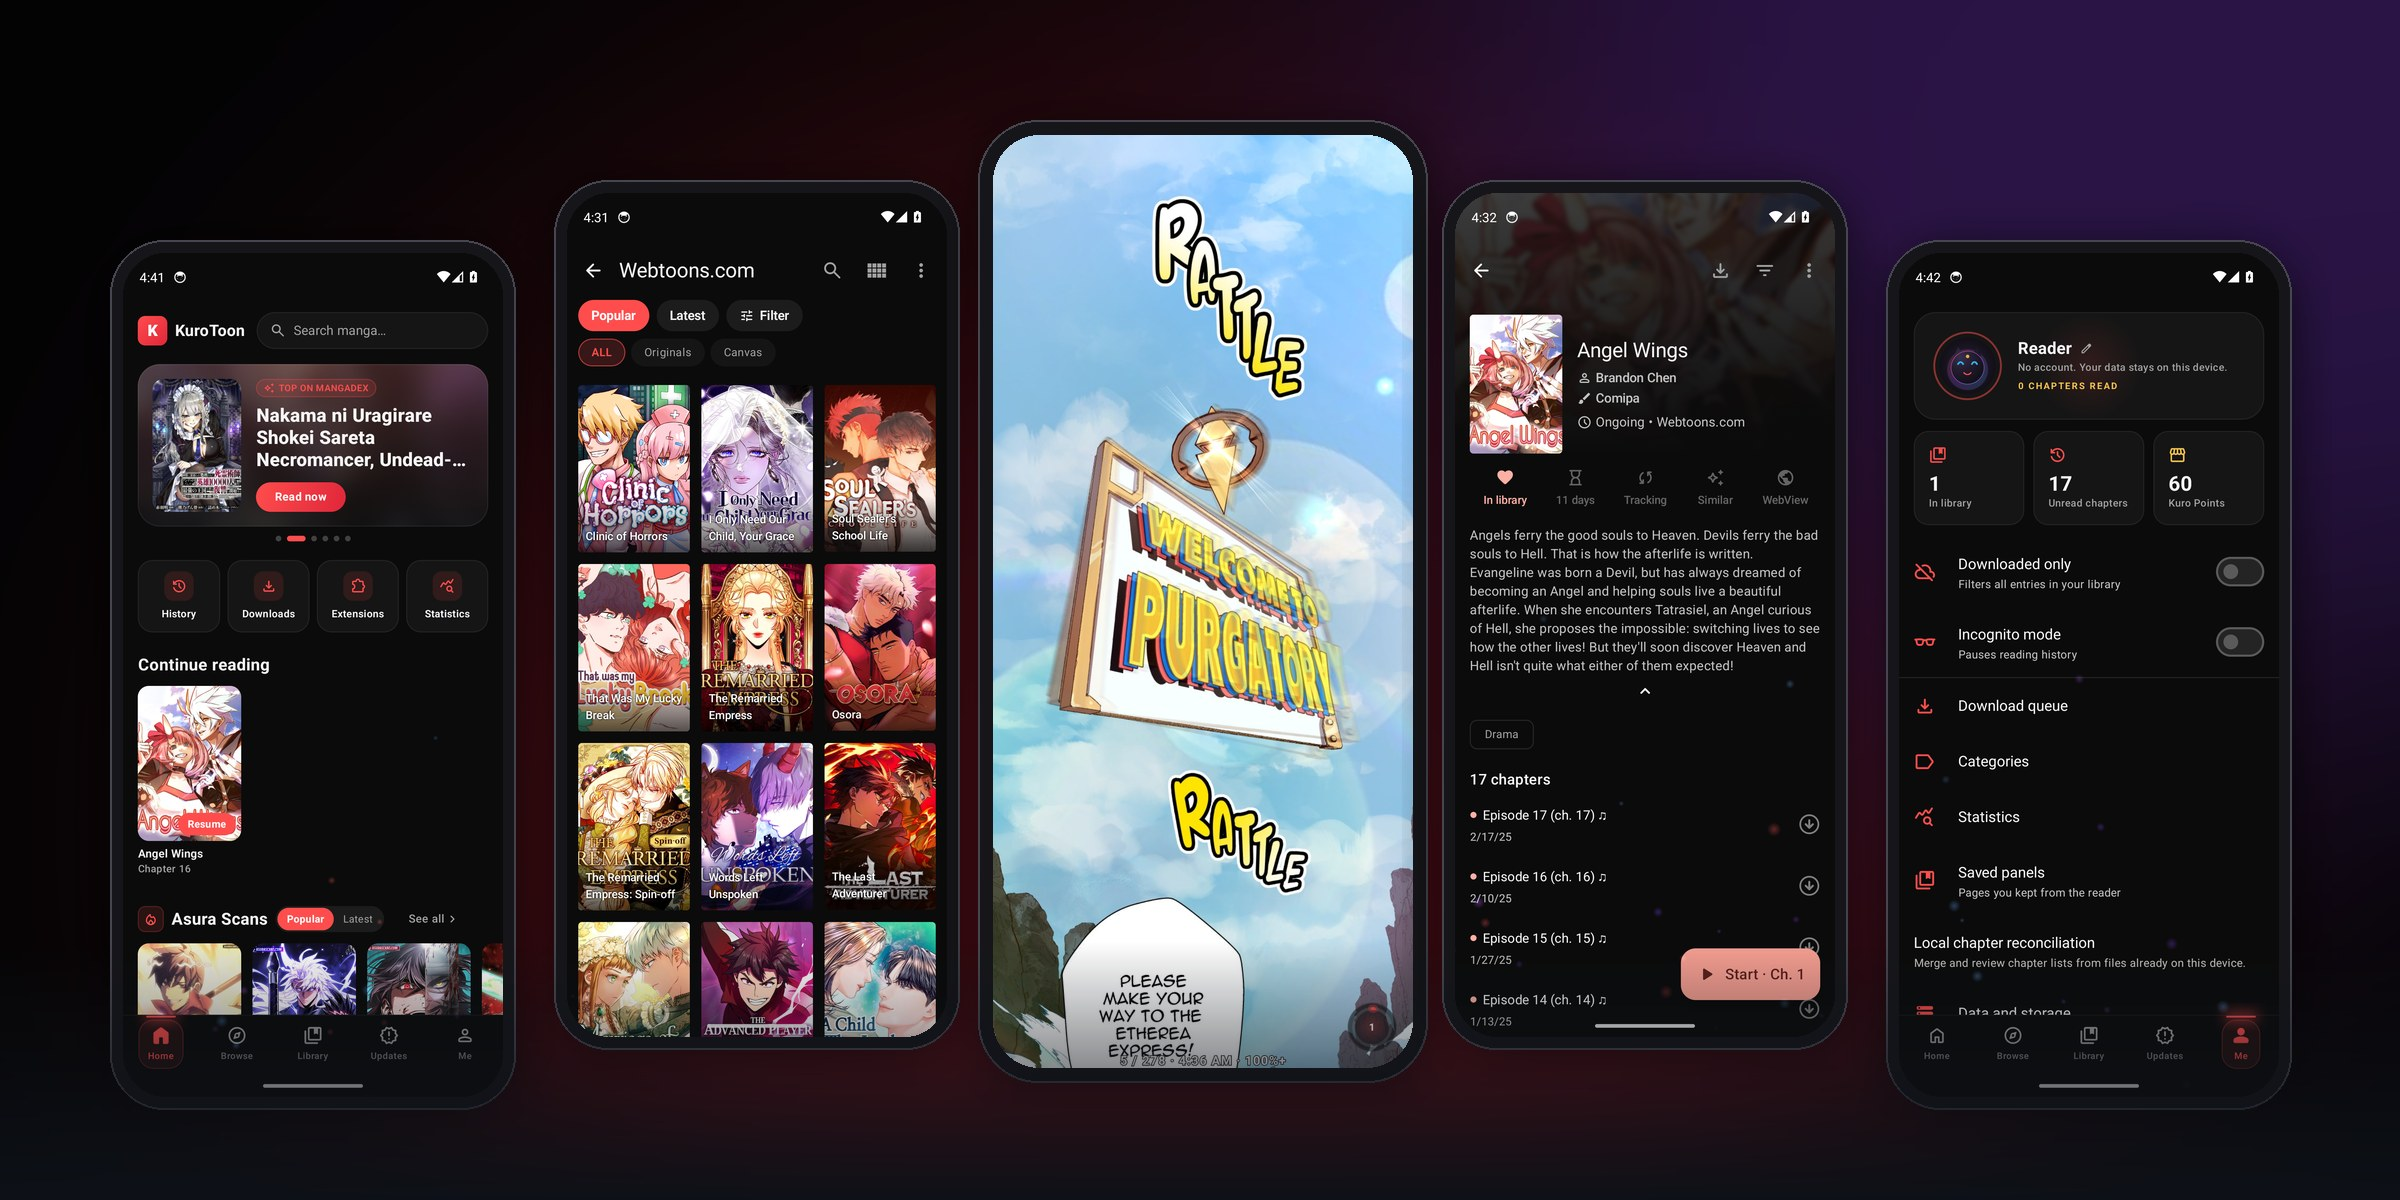
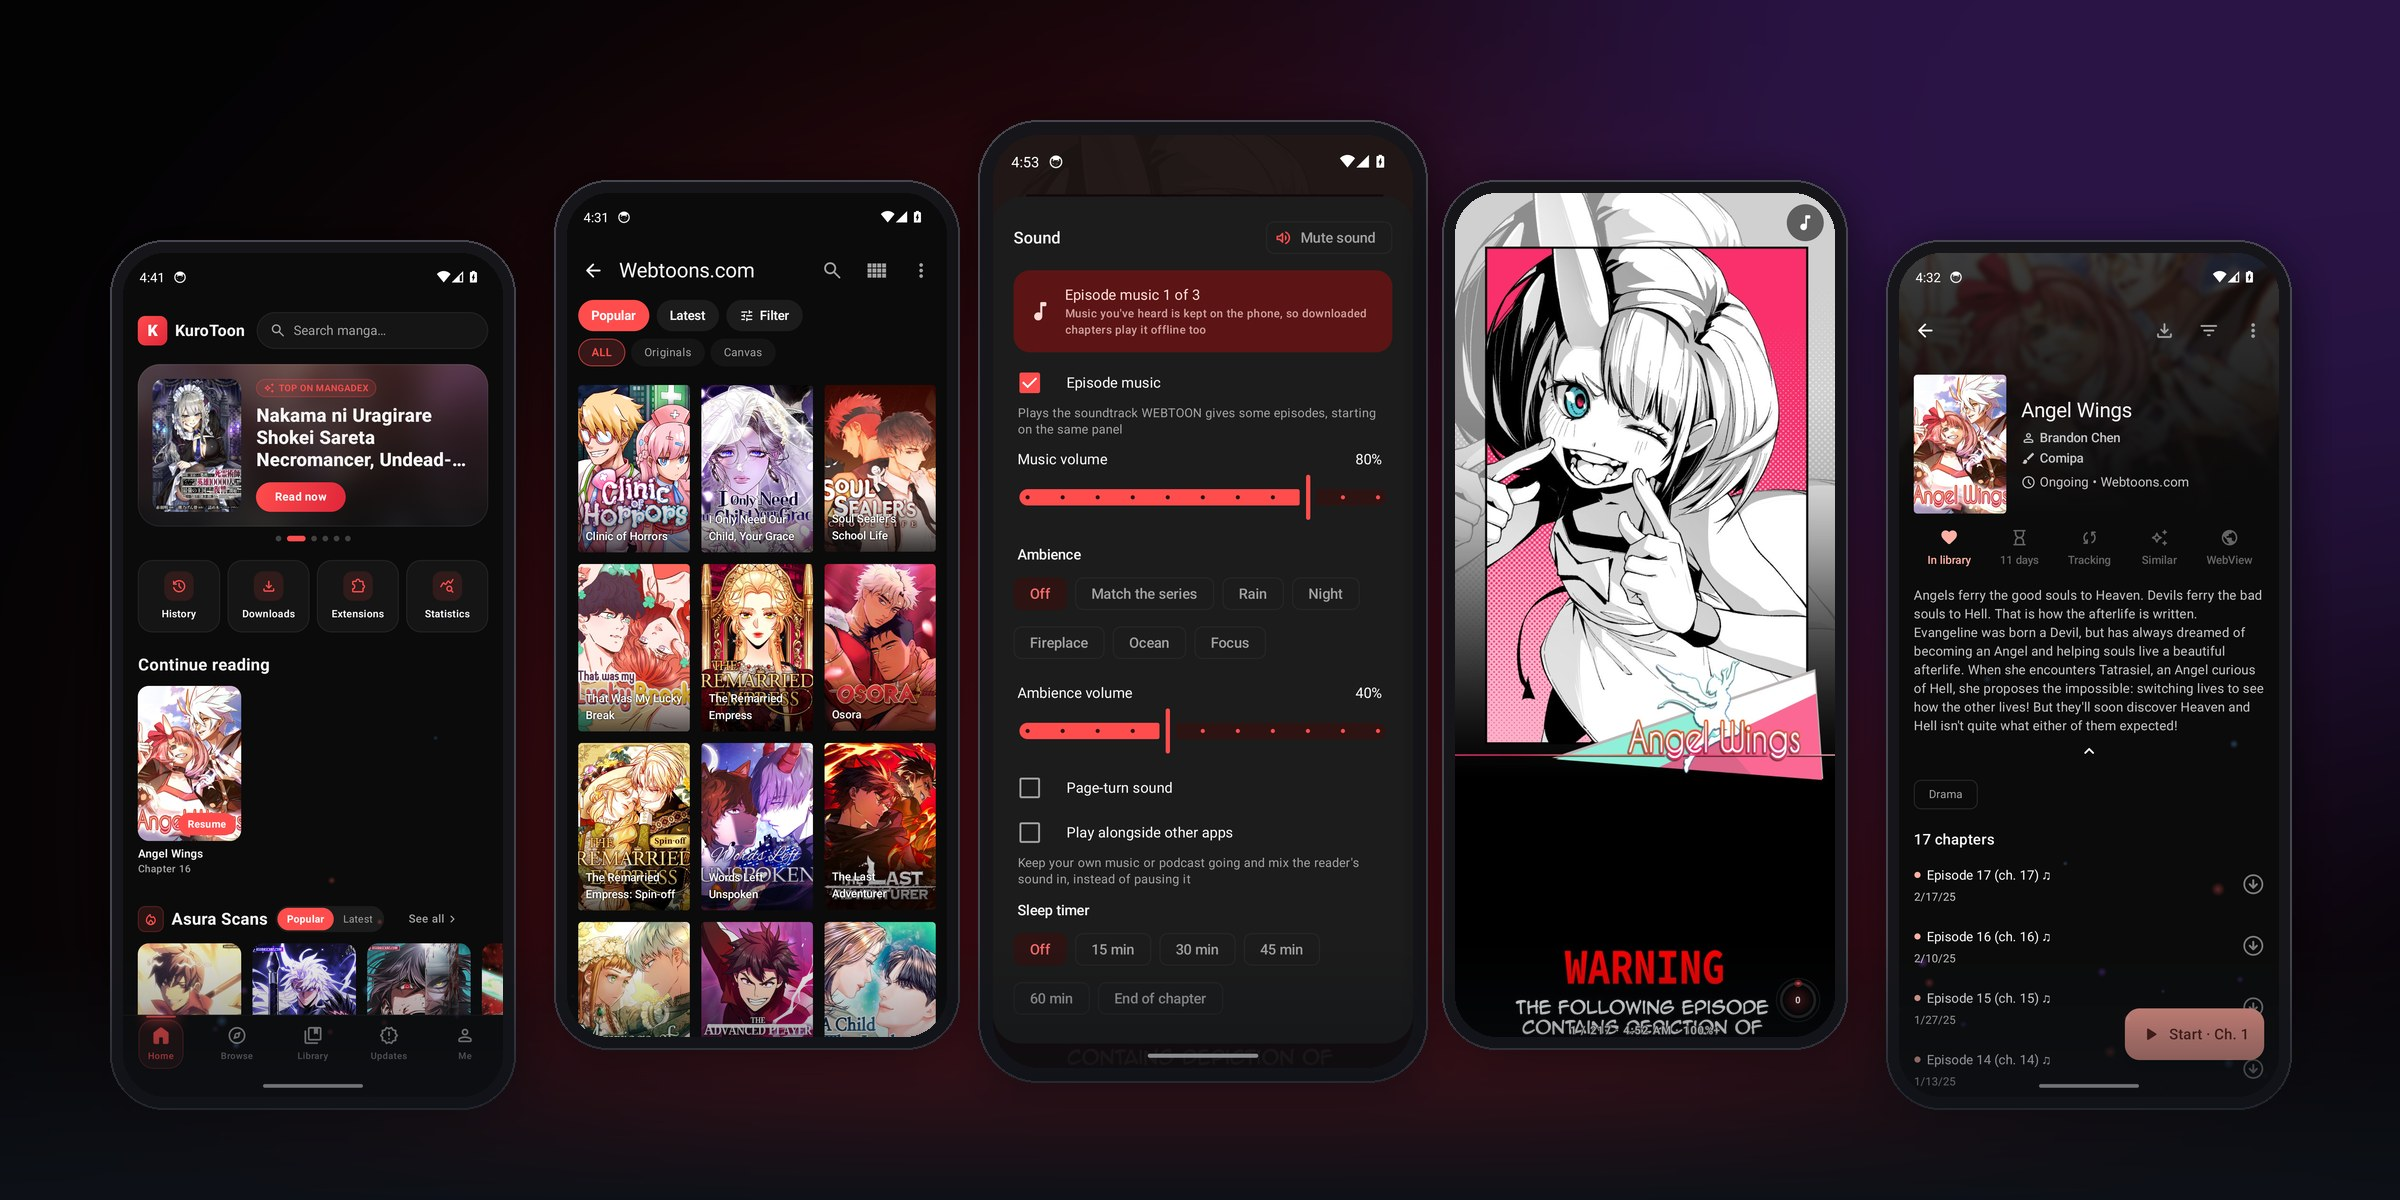
README: add the soundtrack, reader menu and music badge screenshots, refresh the hero

Changed region(s): [[0.4062, 0.0925, 0.9688, 0.8942], [0.625, 0.6783, 0.9688, 0.8942]]

diff --git a/README.md b/README.md
@@ -22,7 +22,7 @@ and tells you what's out today. Private by default: no accounts, no ads, no trac
 **[Get started](#get-started)** ·
 **[Guides](docs/)**
 
-<img src=".github/assets/hero.jpg" alt="KuroToon on a phone: Home, a Webtoons.com series, the reader with its soundtrack, and the library" width="100%">
+<img src=".github/assets/hero.jpg" alt="KuroToon: Home, browsing Webtoons.com, the Sound sheet, a chapter with episode music playing, and a series page" width="100%">
 
 <sub>Every picture on this page is a real screenshot of the current build, taken on an Android emulator with the
 Webtoons.com, MangaDex and Asura Scans sources installed from a public extension store.</sub>
@@ -52,8 +52,10 @@ calendar and music while you read. KuroToon is the first to give you both, plus 
 | Home | Browse a source | Series page |
 | :---: | :---: | :---: |
 | <img src=".github/assets/screenshots/home.jpg" alt="Home feed with a featured title and shortcuts" width="250"> | <img src=".github/assets/screenshots/browse.jpg" alt="Browsing Webtoons.com" width="250"> | <img src=".github/assets/screenshots/series.jpg" alt="Angel Wings series page with music-marked episodes" width="250"> |
-| **The reader** | **Keep a panel** | **Continue reading** |
-| <img src=".github/assets/screenshots/reader.jpg" alt="Reading Angel Wings in long-strip mode with clock and battery" width="250"> | <img src=".github/assets/screenshots/keep_panel.jpg" alt="Page actions with Keep panel" width="250"> | <img src=".github/assets/screenshots/home_continue.jpg" alt="Continue reading and source rows on Home" width="250"> |
+| **Episode music playing** | **Reader menu** | **Soundtrack and sleep timer** |
+| <img src=".github/assets/screenshots/reader.jpg" alt="Reading Angel Wings with the music badge on" width="250"> | <img src=".github/assets/screenshots/reader_menu.jpg" alt="Reader menu with chapters left" width="250"> | <img src=".github/assets/screenshots/sound.jpg" alt="Sound sheet: episode music, ambience, sleep timer" width="250"> |
+| **Keep a panel** | **Long-strip reading** | **Continue reading** |
+| <img src=".github/assets/screenshots/keep_panel.jpg" alt="Page actions with Keep panel" width="250"> | <img src=".github/assets/screenshots/strip.jpg" alt="Long-strip reading with clock and battery" width="250"> | <img src=".github/assets/screenshots/home_continue.jpg" alt="Continue reading and source rows on Home" width="250"> |
 | **Library** | **Updates** | **Me** |
 | <img src=".github/assets/screenshots/library.jpg" alt="Library" width="250"> | <img src=".github/assets/screenshots/updates.jpg" alt="Updates with release schedule" width="250"> | <img src=".github/assets/screenshots/me.jpg" alt="Me tab with profile and stats" width="250"> |
 | **Sources** | **Extensions** | **First run** |
